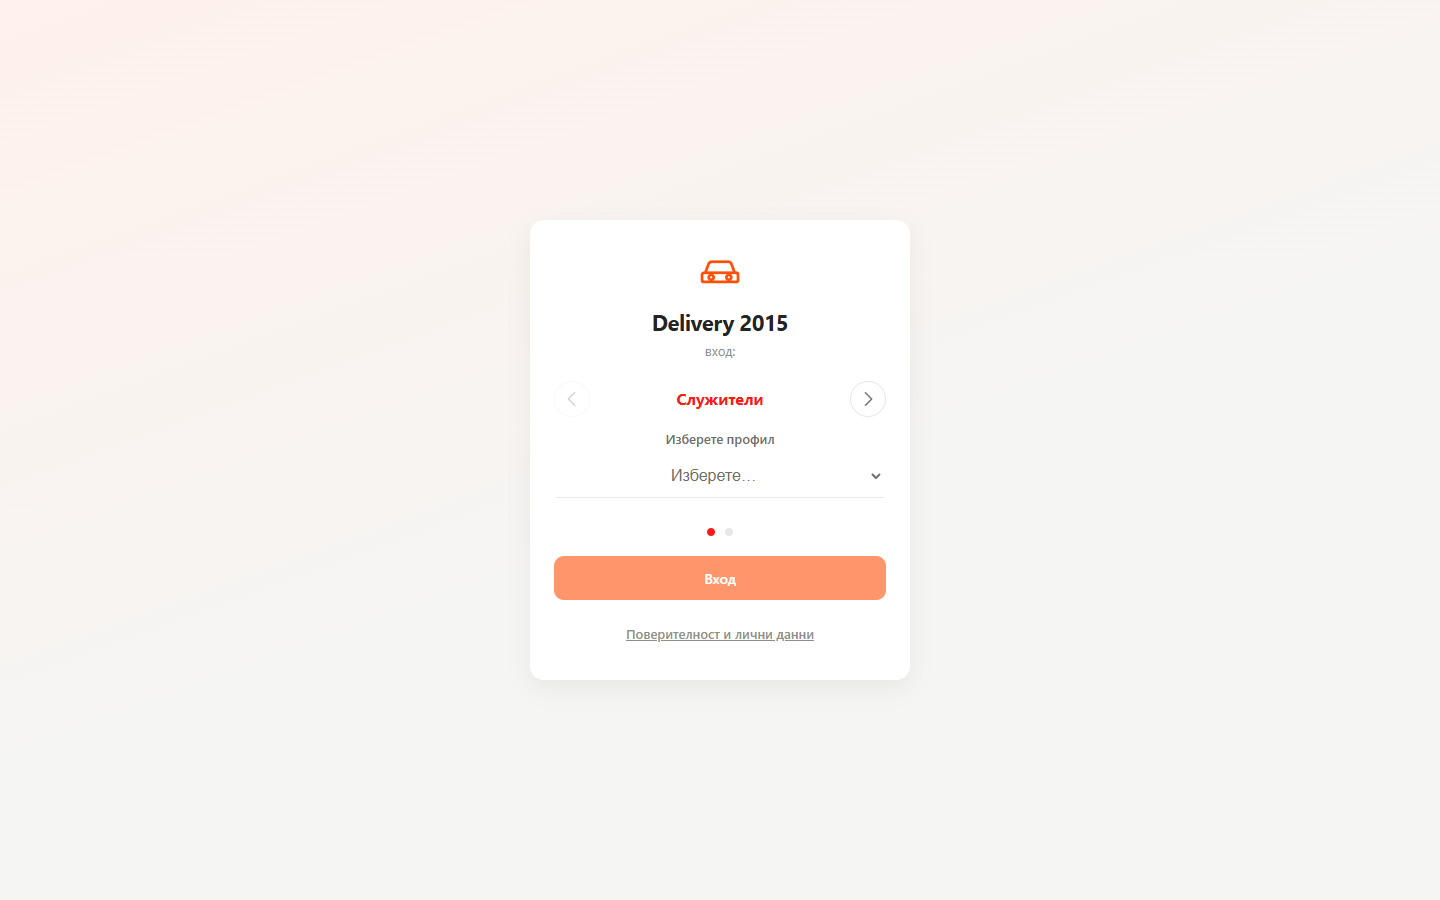
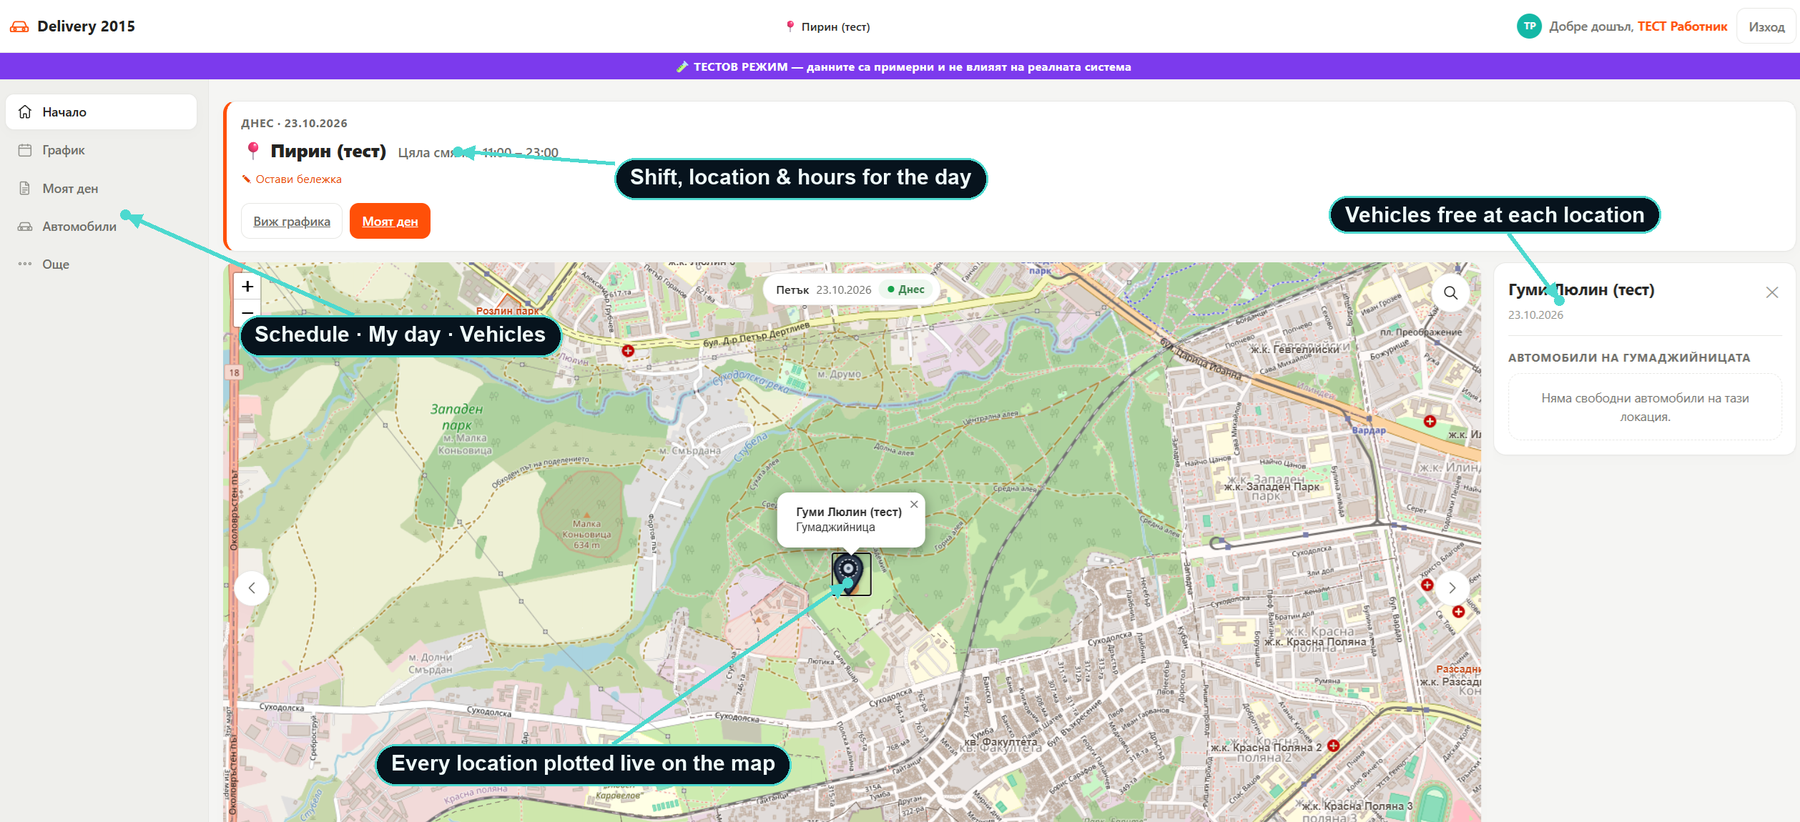
Delivery Fleet: annotated in-app dashboard preview
Replace the login screen with the real operations dashboard (test mode),
cropped and annotated with English callouts + arrows pointing to the
schedule/vehicles nav, the day's shift & location, the live locations
map, and per-location vehicle availability. Full-width media variant so
nothing is cropped.

diff --git a/index.html b/index.html
@@ -93,7 +93,7 @@
         <p class="veo-page__lead">Operations software I built for a client — in daily real-world use.</p>
       </header>
       <div class="veo-detail">
-        <div class="veo-detail__media"><img src="assets/projects/delivery-preview.png" alt="Delivery 2015 application" loading="lazy" /></div>
+        <div class="veo-detail__media veo-detail__media--wide"><img src="assets/projects/delivery-preview.png" alt="Delivery 2015 operations dashboard, annotated" loading="lazy" /></div>
         <div class="veo-detail__body">
           <div class="veo-detail__tags"><span>Client project</span><span>Food delivery</span><span>Car park</span><span>In production</span></div>
           <p>A project I built for a customer that is <strong>currently used in the real world</strong> to run their day-to-day operations — managing <strong>food deliveries</strong> and a <strong>car park</strong> from one system.</p>

diff --git a/style.css b/style.css
@@ -176,6 +176,8 @@ body.veo-route-content .veo-grade { display: none; }
   box-shadow: 0 26px 64px -32px rgba(0, 0, 0, 0.85);
 }
 .veo-detail__media img { width: 100%; height: 100%; object-fit: cover; display: block; }
+/* a wide annotated dashboard shows in full (its own aspect, no side-crop) */
+.veo-detail__media--wide { aspect-ratio: 1800 / 822; }
 .veo-detail__body { display: flex; flex-direction: column; gap: 14px; }
 .veo-detail__tags { display: flex; flex-wrap: wrap; gap: 8px; }
 .veo-detail__tags span {
